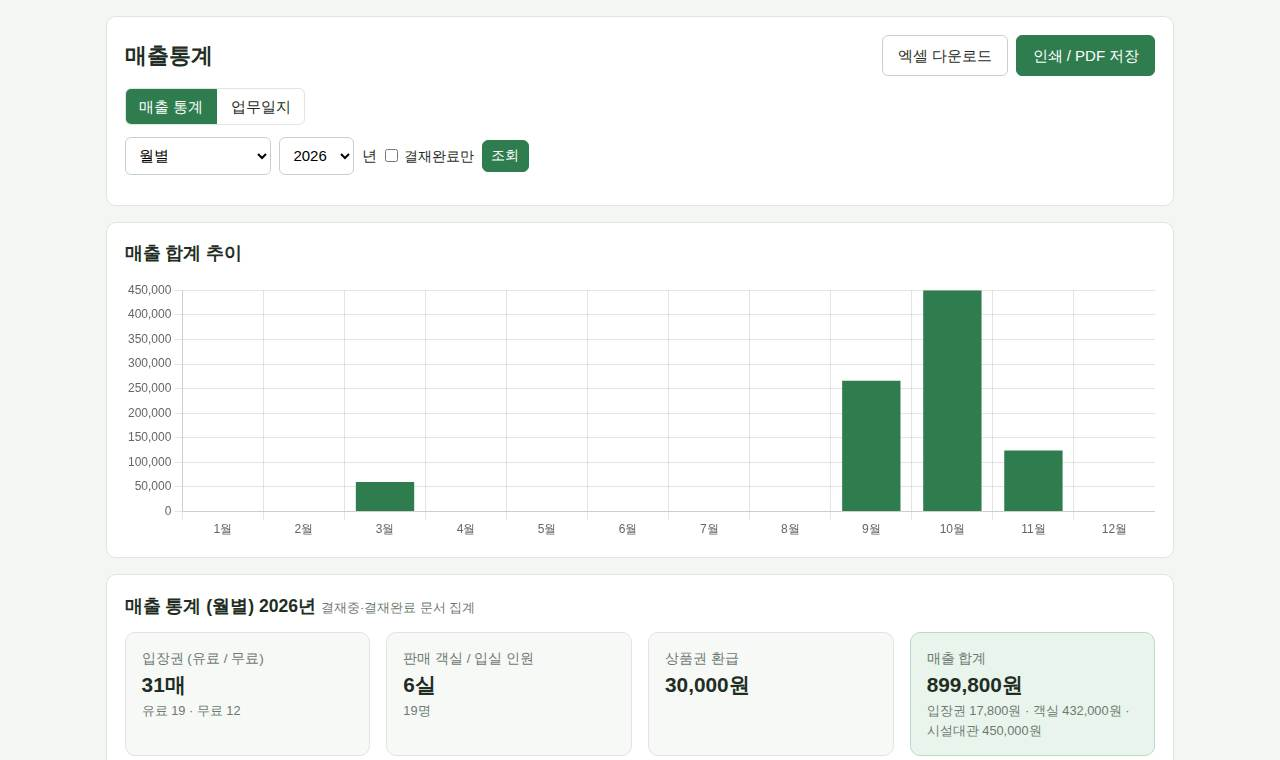
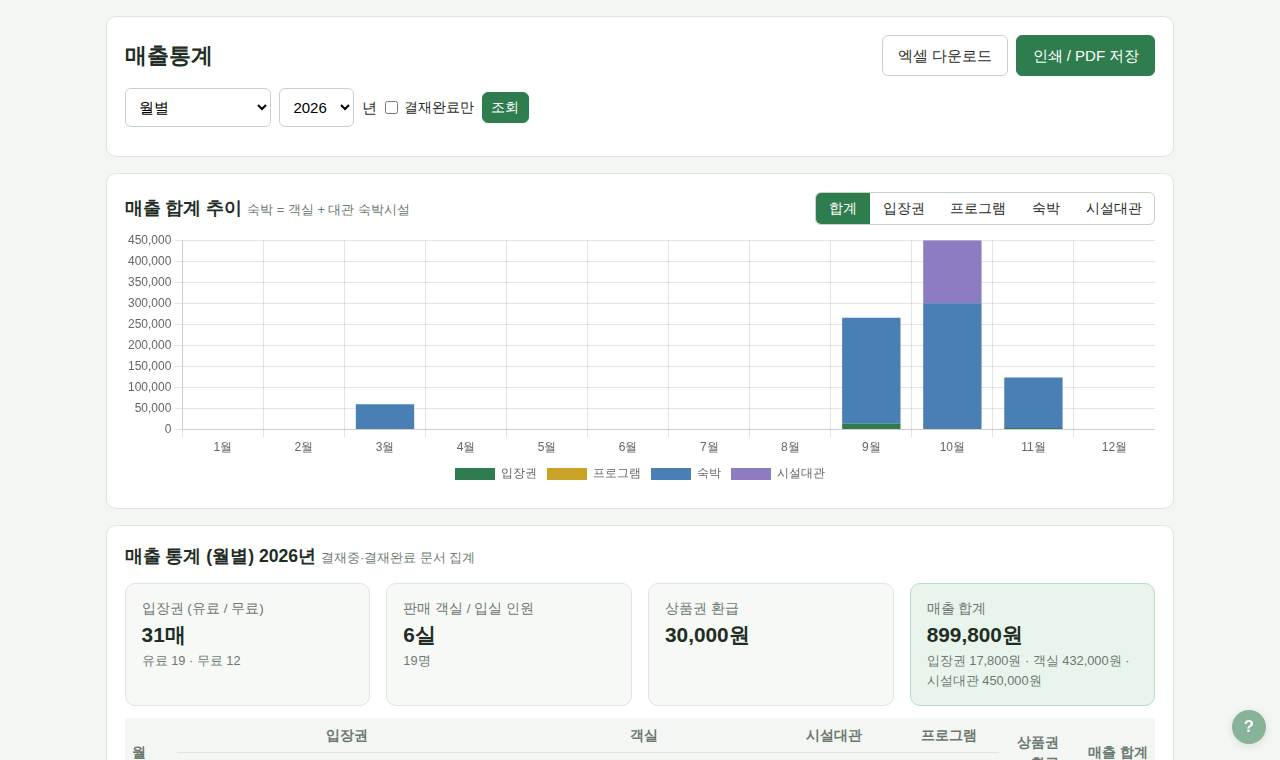
매출통계: 주간(월~일) 보기, 추이 그래프를 입장권·프로그램·숙박으로 쌓고 보기 버튼, 업무일지 탭 제거
stat_chart 에 stacked·views(보기 버튼) 옵션 추가. 숙박 = 객실 + 대관 숙박시설, 시설대관 매출이 있으면 함께 쌓음.
도움말·업데이트·사이트맵·README 반영.

Claude-Session: https://claude.ai/code/session_01Lr6yxKyasrSL9QLfMX5TX8

diff --git a/assets/style.css b/assets/style.css
@@ -728,6 +728,10 @@ a.gcal-ev.bar { color: #fff; }
 .stat-units a { padding: .35rem .9rem; color: var(--text); }
 .stat-units a.on { background: var(--green); color: #fff; }
 .stat-units a:hover { text-decoration: none; }
+.stat-units button { padding: .3rem .8rem; border: 0; background: none; font: inherit; font-size: .88rem; color: var(--text); cursor: pointer; }
+.stat-units button.on { background: var(--green); color: #fff; }
+.stat-chart-card .card-head { margin-bottom: .3rem; }
+.stat-chart-card .card-head h2 { margin: 0; }
 .prog-paid .inline-check { display: flex; align-items: center; gap: .35rem; margin: 0; white-space: nowrap; font-weight: 400; }
 .prog-paid .inline-check input { width: auto; margin: 0; }
 .menu-perms label { display: flex; align-items: center; gap: .25rem; margin: 0; font-weight: 400; line-height: 1.5; }

diff --git a/stats.php b/stats.php
@@ -1,11 +1,12 @@
 <?php
 /**
- * 통계: 매출(기간별/월별/연간), 업무일지 목록. 엑셀 다운로드·인쇄(PDF 저장)
- *   stats.php?tab=sales&mode=range&from=2026-09-01&to=2026-09-30
- *   stats.php?tab=sales&mode=month&year=2026
- *   stats.php?tab=sales&mode=year
- *   stats.php?tab=daily&from=..&to=..
+ * 통계 › 매출통계: 기간별(일자별)·주간(월~일)·월별·연간. 엑셀 다운로드·인쇄(PDF 저장)
+ *   stats.php?mode=range&from=2026-09-01&to=2026-09-30
+ *   stats.php?mode=week&from=2026-07-06&to=2026-09-27
+ *   stats.php?mode=month&year=2026
+ *   stats.php?mode=year
  *   + &export=xlsx
+ * 매출 합계 추이 그래프는 입장권·프로그램·숙박(객실+대관 숙박시설)·시설대관을 한 기둥에 쌓고, 버튼으로 항목별로 본다.
  */
 require __DIR__ . '/app/bootstrap.php';
 require __DIR__ . '/app/xlsx.php';
@@ -14,11 +15,11 @@ $user = require_login();
 require_menu($user, 'stat');
 $pdo = db();
 
-$tab = ($_GET['tab'] ?? 'sales') === 'daily' ? 'daily' : 'sales';
-$mode = in_array($_GET['mode'] ?? '', ['range', 'month', 'year'], true) ? $_GET['mode'] : 'month';
+$tab = 'sales'; // (예전 '업무일지' 탭은 없앰)
+$mode = in_array($_GET['mode'] ?? '', ['range', 'week', 'month', 'year'], true) ? $_GET['mode'] : 'month';
 $year = (int) ($_GET['year'] ?? date('Y'));
 if ($year < 2000 || $year > 2100) $year = (int) date('Y');
-$from = valid_date($_GET['from'] ?? '') ? $_GET['from'] : date('Y-m-01');
+$from = valid_date($_GET['from'] ?? '') ? $_GET['from'] : ($mode === 'week' ? date('Y-m-d', strtotime('monday this week -11 weeks')) : date('Y-m-01'));
 $to = valid_date($_GET['to'] ?? '') ? $_GET['to'] : date('Y-m-d');
 if ($from > $to) [$from, $to] = [$to, $from];
 $approvedOnly = !empty($_GET['approved']);
@@ -40,6 +41,19 @@ if ($tab === 'sales') {
         }
         $title = "매출 통계 (기간별) {$from} ~ {$to}";
         $keyHead = '일자';
+    } elseif ($mode === 'week') {
+        // 주간: 월요일~일요일 (기간 첫 주·마지막 주는 기간 안의 날만)
+        if ((strtotime($to) - strtotime($from)) / 86400 > 366 * 2) $from = date('Y-m-d', strtotime($to . ' -' . (366 * 2) . ' days'));
+        $keySql = "DATE_FORMAT(DATE_SUB(j.work_date, INTERVAL WEEKDAY(j.work_date) DAY), '%Y-%m-%d')";
+        $rangeFrom = $from; $rangeTo = $to;
+        $labels = [];
+        for ($w = new DateTimeImmutable(date('Y-m-d', strtotime('monday this week', strtotime($from)))); $w->format('Y-m-d') <= $to; $w = $w->modify('+7 days')) {
+            $ws = max($w->format('Y-m-d'), $from);
+            $we = min($w->modify('+6 days')->format('Y-m-d'), $to);
+            $labels[$w->format('Y-m-d')] = date('y.n/j', strtotime($ws)) . '~' . date('n/j', strtotime($we));
+        }
+        $title = "매출 통계 (주간) {$from} ~ {$to}";
+        $keyHead = '주 (월~일)';
     } elseif ($mode === 'year') {
         $minYear = (int) ($pdo->query("SELECT MIN(YEAR(work_date)) FROM journals WHERE type IN ('sales', 'rooms')")->fetchColumn() ?: date('Y'));
         $keySql = "DATE_FORMAT(j.work_date, '%Y')";
@@ -62,7 +76,7 @@ if ($tab === 'sales') {
         $st->execute([...$statuses, $rangeFrom, $rangeTo]);
         return $st->fetchAll();
     };
-    $metrics = ['paid' => 0, 'free' => 0, 'ticket_amt' => 0, 'cash' => 0, 'card' => 0, 'rooms' => 0, 'guests' => 0, 'room_amt' => 0, 'rent_qty' => 0, 'rent_amt' => 0, 'prog_qty' => 0, 'prog_amt' => 0, 'voucher' => 0, 'total' => 0];
+    $metrics = ['paid' => 0, 'free' => 0, 'ticket_amt' => 0, 'cash' => 0, 'card' => 0, 'rooms' => 0, 'guests' => 0, 'room_amt' => 0, 'rent_qty' => 0, 'rent_amt' => 0, 'lodge_amt' => 0, 'prog_qty' => 0, 'prog_amt' => 0, 'voucher' => 0, 'total' => 0];
     $data = array_fill_keys(array_keys($labels), $metrics);
 
     foreach ($run("SELECT $keySql AS k,
@@ -74,12 +88,13 @@ if ($tab === 'sales') {
                 SUM(IF(l.grp = 'room', l.amount, 0)) AS room_amt,
                 SUM(IF(l.grp IN ('rental', 'lodge'), l.qty, 0)) AS rent_qty,
                 SUM(IF(l.grp IN ('rental', 'lodge'), l.amount, 0)) AS rent_amt,
+                SUM(IF(l.grp = 'lodge', l.amount, 0)) AS lodge_amt,
                 SUM(IF(l.grp = 'program', l.qty + l.guests, 0)) AS prog_qty,
                 SUM(IF(l.grp = 'program', l.amount, 0)) AS prog_amt
            FROM journals j JOIN sales_lines l ON l.journal_id = j.id
           WHERE " . SALE_DOC_SQL . " AND $statusSql AND j.work_date BETWEEN ? AND ? GROUP BY k") as $r) {
         if (!isset($data[$r['k']])) continue;
-        foreach (['paid', 'free', 'ticket_amt', 'rooms', 'guests', 'room_amt', 'rent_qty', 'rent_amt', 'prog_qty', 'prog_amt'] as $m) $data[$r['k']][$m] = (int) $r[$m];
+        foreach (['paid', 'free', 'ticket_amt', 'rooms', 'guests', 'room_amt', 'rent_qty', 'rent_amt', 'lodge_amt', 'prog_qty', 'prog_amt'] as $m) $data[$r['k']][$m] = (int) $r[$m];
     }
     foreach ($run("SELECT $keySql AS k, SUM(m.ticket_cash) AS cash FROM journals j JOIN sales_meta m ON m.journal_id = j.id
           WHERE " . SALE_DOC_SQL . " AND $statusSql AND j.work_date BETWEEN ? AND ? GROUP BY k") as $r) {
@@ -151,33 +166,8 @@ if ($tab === 'sales') {
     }
 }
 
-/* ───────────── 업무일지 목록 ───────────── */
-
-if ($tab === 'daily') {
-    if ((strtotime($to) - strtotime($from)) / 86400 > 366) $from = date('Y-m-d', strtotime($to . ' -366 days'));
-    $st = $pdo->prepare(
-        "SELECT j.*, u.name AS author_name FROM journals j JOIN users u ON u.id = j.author_id
-          WHERE j.type = 'daily' AND $statusSql AND j.work_date BETWEEN ? AND ?
-          ORDER BY j.work_date, j.id"
-    );
-    $st->execute([...$statuses, $from, $to]);
-    $journals = $st->fetchAll();
-    $title = "업무일지 {$from} ~ {$to}";
-
-    if (($_GET['export'] ?? '') === 'xlsx') {
-        xlsx_send(str_replace(' ', '_', $title) . '.xlsx', [[
-            'name' => '업무일지', 'title' => config('site_name') . ' ' . $title,
-            'subtitle' => $statusLabel . ' · ' . count($journals) . '건 · 출력 ' . date('Y-m-d H:i') . ' · ' . $user['name'],
-            'header' => ['일자', '요일', '작성자', '날씨', '업무내용', '특이사항', '결재상태'],
-            'rows' => array_map(fn($j) => [$j['work_date'], weekday_ko($j['work_date']), $j['author_name'], (string) $j['weather'],
-                (string) $j['content'], (string) $j['remarks'], JOURNAL_STATUS[$j['status']]], $journals),
-            'widths' => [12, 5, 10, 10, 60, 40, 10],
-        ]]);
-    }
-}
-
 $query = fn(array $over) => 'stats.php?' . http_build_query(array_filter([
-    'tab' => $tab, 'mode' => $mode, 'year' => $year, 'from' => $from, 'to' => $to, 'approved' => $approvedOnly ? 1 : null, ...$over,
+    'mode' => $mode, 'year' => $year, 'from' => $from, 'to' => $to, 'approved' => $approvedOnly ? 1 : null, ...$over,
 ], fn($v) => $v !== null && $v !== ''));
 
 layout_header($title, 'stats');
@@ -191,21 +181,14 @@ layout_header($title, 'stats');
       <button class="btn primary" onclick="window.print()">인쇄 / PDF 저장</button>
     </div>
   </div>
-  <div class="tabs team-tabs no-print">
-    <a href="<?= e(url('stats.php?tab=sales')) ?>" class="<?= $tab === 'sales' ? 'on' : '' ?>">매출 통계</a>
-    <a href="<?= e(url('stats.php?tab=daily')) ?>" class="<?= $tab === 'daily' ? 'on' : '' ?>">업무일지</a>
-  </div>
-
   <form class="filter no-print" method="get">
-    <input type="hidden" name="tab" value="<?= $tab ?>">
-    <?php if ($tab === 'sales'): ?>
-      <select name="mode" onchange="this.form.submit()">
+      <select name="mode" onchange="this.form.querySelectorAll('input[type=date]').forEach((i) => i.disabled = true); this.form.submit()">
         <option value="range" <?= $mode === 'range' ? 'selected' : '' ?>>기간별 (일자별)</option>
+        <option value="week" <?= $mode === 'week' ? 'selected' : '' ?>>주간 (월~일)</option>
         <option value="month" <?= $mode === 'month' ? 'selected' : '' ?>>월별</option>
         <option value="year" <?= $mode === 'year' ? 'selected' : '' ?>>연간</option>
       </select>
-    <?php endif ?>
-    <?php if ($tab === 'daily' || $mode === 'range'): ?>
+    <?php if ($mode === 'range' || $mode === 'week'): ?>
       <input type="date" name="from" value="<?= e($from) ?>"> ~ <input type="date" name="to" value="<?= e($to) ?>">
     <?php elseif ($mode === 'month'): ?>
       <select name="year"><?php for ($y = (int) date('Y') + 1; $y >= (int) date('Y') - 9; $y--): ?><option <?= $y === $year ? 'selected' : '' ?>><?= $y ?></option><?php endfor ?></select>년
@@ -215,17 +198,30 @@ layout_header($title, 'stats');
   </form>
 </section>
 
-<?php if ($tab === 'sales'):
-    // 그래프: 매출 합계 (기간별은 3개월 이하 일별·그보다 길면 월별, 월별 보기는 월별, 연간은 연도별)
+<?php
+    // 그래프: 매출 추이 — 입장권·프로그램·숙박(객실+대관 숙박시설)·시설대관을 한 기둥에 쌓는다
+    // (기간별은 3개월 이하 일별·그보다 길면 월별, 주간은 주별, 월별 보기는 월별, 연간은 연도별)
+    $parts = ['ticket' => fn($r) => $r['ticket_amt'], 'prog' => fn($r) => $r['prog_amt'], 'stay' => fn($r) => $r['room_amt'] + $r['lodge_amt'], 'rental' => fn($r) => $r['rent_amt'] - $r['lodge_amt']];
     if ($mode === 'range' && chart_gran($from, $to) === 'month') {
         $cLabels = chart_buckets($from, $to, 'month');
-        $cData = array_fill_keys(array_keys($cLabels), 0);
-        foreach ($data as $k => $r) $cData[substr($k, 0, 7)] += $r['total'];
+        $cData = array_fill_keys(array_keys($parts), array_fill_keys(array_keys($cLabels), 0));
+        foreach ($data as $k => $r) foreach ($parts as $pk => $fnp) $cData[$pk][substr($k, 0, 7)] += $fnp($r);
     } else {
         $cLabels = $mode === 'range' ? array_map(fn($k) => date('n/j', strtotime($k)), array_combine(array_keys($data), array_keys($data))) : $labels;
-        $cData = array_column($data, 'total');
+        $cData = array_map(fn($fnp) => array_map($fnp, $data), $parts);
     }
-    stat_chart('salesChart', '매출 합계 추이', array_values($cLabels), [['label' => '매출 합계', 'data' => array_values($cData), 'color' => '#2f7d4f']], '원');
+    $sets = [
+        ['label' => '입장권', 'data' => array_values($cData['ticket']), 'color' => '#2f7d4f'],
+        ['label' => '프로그램', 'data' => array_values($cData['prog']), 'color' => '#c9a227'],
+        ['label' => '숙박', 'data' => array_values($cData['stay']), 'color' => '#4a7fb5'],
+    ];
+    $views = ['합계' => [0, 1, 2], '입장권' => [0], '프로그램' => [1], '숙박' => [2]];
+    if (array_sum($cData['rental'])) { // 시설대관 매출이 있으면 기둥에 함께 (합계가 맞도록)
+        $sets[] = ['label' => '시설대관', 'data' => array_values($cData['rental']), 'color' => '#8e7cc3'];
+        $views['합계'][] = 3;
+        $views['시설대관'] = [3];
+    }
+    stat_chart('salesChart', '매출 합계 추이', array_values($cLabels), $sets, '원', '숙박 = 객실 + 대관 숙박시설', ['stacked' => true, 'views' => $views]);
 ?>
 <section class="card">
   <h2><?= e($title) ?> <small class="muted"><?= e($statusLabel) ?> 집계</small></h2>
@@ -302,25 +298,4 @@ layout_header($title, 'stats');
 <?php endif ?>
 <p class="muted small no-print">현금·카드는 입장권 기준입니다(카드 = 입장권 금액 − 현금). 이전 형식으로 작성된 매출보고는 통계에 포함되지 않습니다.</p>
 
-<?php else: ?>
-<section class="card">
-  <h2><?= e($title) ?> <small class="muted"><?= count($journals) ?>건 · <?= e($statusLabel) ?></small></h2>
-  <table class="table daily-list">
-    <thead><tr><th>일자</th><th>작성자</th><th>날씨</th><th>업무내용</th><th>특이사항</th><th>상태</th></tr></thead>
-    <tbody>
-    <?php foreach ($journals as $j): ?>
-      <tr>
-        <td class="nowrap"><a href="<?= e(url('view.php?id=' . $j['id'])) ?>"><?= e($j['work_date']) ?></a> (<?= weekday_ko($j['work_date']) ?>)</td>
-        <td class="nowrap"><?= e($j['author_name']) ?></td>
-        <td class="nowrap"><?= e($j['weather']) ?></td>
-        <td class="pre-cell"><?= e($j['content']) ?></td>
-        <td class="pre-cell"><?= e($j['remarks']) ?></td>
-        <td><?= journal_badges($j) ?></td>
-      </tr>
-    <?php endforeach ?>
-    <?php if (!$journals): ?><tr><td colspan="6" class="center muted">해당 기간의 업무일지가 없습니다.</td></tr><?php endif ?>
-    </tbody>
-  </table>
-</section>
-<?php endif ?>
 <?php layout_footer();

diff --git a/app/charts.php b/app/charts.php
@@ -34,8 +34,10 @@ function chart_key(string $date, string $gran): string
 /**
  * 그래프 카드 하나
  * $datasets = [['label' => '합계', 'data' => [..], 'color' => '#2f7d4f', 'type' => 'bar'|'line'], ...]
+ * $opts = ['stacked' => true,                         // 막대를 한 기둥에 쌓기 (마우스를 올리면 항목별과 합계)
+ *          'views' => ['합계' => [0, 1, 2], '입장권' => [0], ...]]  // 보기 버튼: 누르면 그 항목(데이터셋 번호)만
  */
-function stat_chart(string $id, string $title, array $labels, array $datasets, string $unit = '', string $note = ''): void
+function stat_chart(string $id, string $title, array $labels, array $datasets, string $unit = '', string $note = '', array $opts = []): void
 {
     static $loaded = false;
     if (!$loaded) {
@@ -49,7 +51,14 @@ function stat_chart(string $id, string $title, array $labels, array $datasets, s
     ], $datasets);
     ?>
 <section class="card stat-chart-card">
-  <h2><?= e($title) ?><?php if ($note): ?> <small class="muted"><?= e($note) ?></small><?php endif ?></h2>
+  <div class="card-head">
+    <h2><?= e($title) ?><?php if ($note): ?> <small class="muted"><?= e($note) ?></small><?php endif ?></h2>
+    <?php if (!empty($opts['views'])): ?>
+      <div class="stat-units chart-views no-print" data-chart-views="<?= e($id) ?>">
+        <?php $vi = 0; foreach ($opts['views'] as $vlabel => $idx): ?><button type="button" class="<?= $vi++ === 0 ? 'on' : '' ?>" data-show="<?= e(json_encode(array_values($idx))) ?>"><?= e($vlabel) ?></button><?php endforeach ?>
+      </div>
+    <?php endif ?>
+  </div>
   <div class="stat-chart"><canvas id="<?= e($id) ?>"></canvas></div>
 </section>
 <script>
@@ -57,15 +66,30 @@ function stat_chart(string $id, string $title, array $labels, array $datasets, s
   const el = document.getElementById(<?= json_encode($id) ?>);
   if (!el || !window.Chart) { if (el) el.closest('.stat-chart').innerHTML = '<p class="muted small">그래프를 불러오지 못했습니다 (인터넷 연결 확인).</p>'; return; }
   const unit = <?= json_encode($unit, JSON_UNESCAPED_UNICODE) ?>;
-  new Chart(el, {
+  const stacked = <?= !empty($opts['stacked']) ? 'true' : 'false' ?>;
+  const fmt = (v) => Number(v).toLocaleString('ko-KR');
+  const chart = new Chart(el, {
     data: { labels: <?= json_encode(array_values($labels), JSON_UNESCAPED_UNICODE) ?>, datasets: <?= json_encode($ds, JSON_UNESCAPED_UNICODE) ?> },
     options: {
       responsive: true, maintainAspectRatio: false, animation: false,
       interaction: { mode: 'index', intersect: false },
-      scales: { y: { beginAtZero: true, ticks: { precision: 0, callback: (v) => Number(v).toLocaleString('ko-KR') } }, x: { ticks: { autoSkip: true, maxRotation: 0 } } },
+      scales: { y: { stacked, beginAtZero: true, ticks: { precision: 0, callback: (v) => fmt(v) } }, x: { stacked, ticks: { autoSkip: true, maxRotation: 0 } } },
       plugins: { legend: { position: 'bottom', display: <?= count($datasets) > 1 ? 'true' : 'false' ?> },
-        tooltip: { callbacks: { label: (c) => `${c.dataset.label}: ${Number(c.parsed.y).toLocaleString('ko-KR')}${unit}` } } },
+        tooltip: { callbacks: {
+          label: (c) => `${c.dataset.label}: ${fmt(c.parsed.y)}${unit}`,
+          footer: (items) => stacked && items.length > 1 ? `합계: ${fmt(items.reduce((s, i) => s + i.parsed.y, 0))}${unit}` : '',
+        } } },
     },
+  });
+  // 보기 버튼 (합계 / 항목별)
+  const views = document.querySelector('[data-chart-views="' + el.id + '"]');
+  if (views) views.addEventListener('click', (ev) => {
+    const b = ev.target.closest('button[data-show]');
+    if (!b) return;
+    const show = JSON.parse(b.dataset.show);
+    chart.data.datasets.forEach((_, i) => chart.setDatasetVisibility(i, show.includes(i)));
+    chart.update();
+    views.querySelectorAll('button').forEach((x) => x.classList.toggle('on', x === b));
   });
 })();
 </script>

diff --git a/app/changelog.php b/app/changelog.php
@@ -7,6 +7,11 @@ defined('APP_ROOT') || exit;
  *   ['date' => 'YYYY-MM-DD', 'title' => '한 줄 요약', 'items' => ['자세한 내용', ...], 'menu' => '관련 메뉴(선택)']
  */
 const CHANGELOG = [
+    ['date' => '2026-09-30', 'title' => '매출통계: 주간 보기, 항목별 추이 그래프', 'menu' => '통계', 'items' => [
+        '매출통계에 주간(월~일) 보기를 추가했습니다.',
+        '매출 합계 추이 그래프의 기둥이 입장권·프로그램·숙박으로 나뉘어 쌓이고, 합계·입장권·프로그램·숙박 버튼으로 따로 볼 수 있습니다.',
+        "매출통계의 '업무일지' 버튼(탭)을 없앴습니다. 업무일지는 운영관리 › 업무일지에서 봅니다.",
+    ]],
     ['date' => '2026-09-30', 'title' => '매출 가져오기: 산림청 통합운영시스템 엑셀(.xls) 그대로 올리기', 'menu' => '설정', 'items' => [
         "산림청 통합운영시스템의 '상품판매현황' 엑셀(.xls)을 고치지 않고 올릴 수 있습니다. 제목 줄·합계 줄·쪽 번호는 건너뛰고, 사용일자·상품명·결제수단·단가·수량·금액 열을 찾아 읽습니다.",
         '가져올 곳을 고르는 표에 엑셀의 상품구분(지역주민·체험·추가인원 등)이 함께 보입니다.',

diff --git a/sitemap.php b/sitemap.php
@@ -16,7 +16,7 @@ const SITEMAP_DESC = [
     'supplies'   => '객실 소모품 등록(사진·품명·규격·단위·적정재고)과 일별 수불대장(입고·출고·재고)',
     'ar'         => '아르바이트(AR) 사용계획 달력, 사용가능·계획·사용 횟수, 사용일별 AR 사용보고 결재 (공무직 이상)',
     'voucher'    => '지역상품권 금고·담당자 재고, 일일 불출·반납과 대조, 금고점검 보고서, 수불부',
-    'stats'      => '매출 기간별·월별·연간 통계, 업무일지 모아보기 (엑셀·인쇄)',
+    'stats'      => '매출 기간별·주간·월별·연간 통계, 입장권·프로그램·숙박별 추이 그래프 (엑셀·인쇄)',
     'visit_stats' => '입장권 판매(유료·무료) 입장객 수를 기간별·주간·월간·연간으로, 추이 그래프·입장권별·요일별 (엑셀·인쇄)',
     'room_stats' => '객실 판매·입실인원·가동률·평균 객실단가를 일간·주간·월간·연간으로, 두 기간 비교 (엑셀·인쇄)',
     'complaints' => '업무일지에 입력한 민원을 일자·주·월별로 조회, 처리상태 변경·완료 처리',

diff --git a/app/help.php b/app/help.php
@@ -232,7 +232,8 @@ HTML],
         ['id' => 'g-stat', 'label' => '통계', 'items' => [
             ['id' => 'stats', 'title' => '매출통계', 'keys' => ['stats'], 'img' => ['stats.jpg' => '매출통계'], 'body' => <<<'HTML'
 <ul>
-  <li>기간별(일자별) · 월별 · 연간. 입장권·객실·시설대관·프로그램·상품권 환급·매출 합계, 입장권별·객실별 합계, 추이 그래프.</li>
+  <li>기간별(일자별) · <b>주간(월~일)</b> · 월별 · 연간. 입장권·객실·시설대관·프로그램·상품권 환급·매출 합계, 입장권별·객실별 합계.</li>
+  <li><b>매출 합계 추이 그래프</b>: 기둥 하나에 입장권·프로그램·숙박(객실+대관 숙박시설)이 색으로 나뉘어 쌓입니다 (시설대관 매출이 있으면 함께). 오른쪽 위 <b>합계 · 입장권 · 프로그램 · 숙박</b> 버튼으로 항목별로 봅니다. 기둥에 마우스를 올리면 항목별 금액과 합계가 나옵니다.</li>
   <li>'결재완료만' 체크로 결재 끝난 문서만. <b>엑셀</b>(여러 시트)과 <b>인쇄·PDF</b>(인쇄 창에서 'PDF로 저장').</li>
 </ul>
 HTML],
